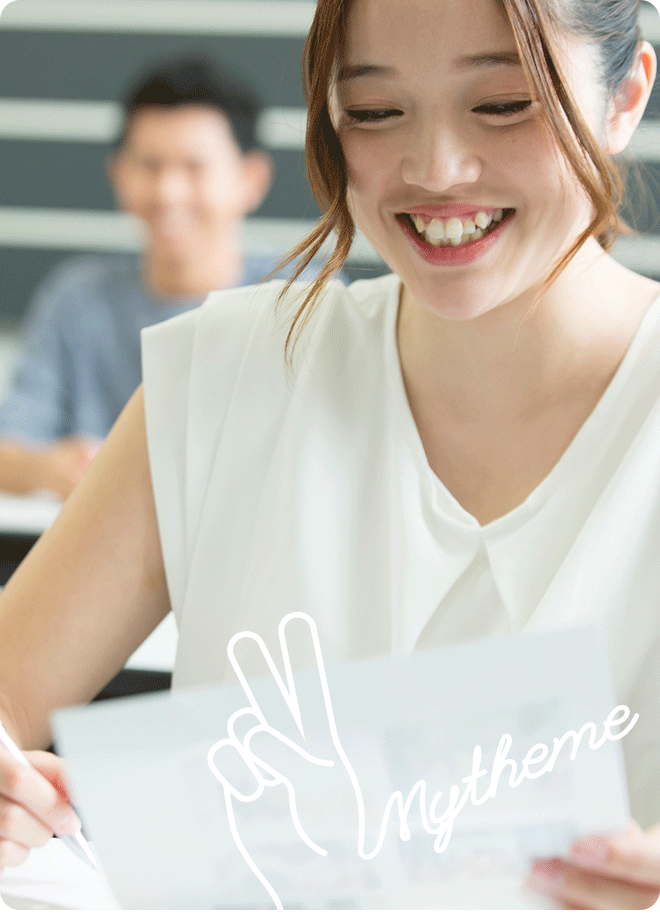
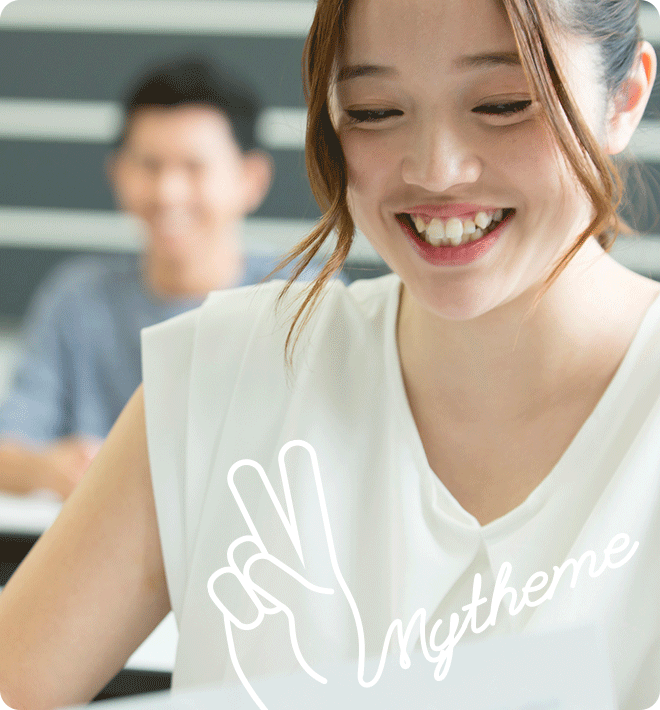
udpate code fix bug HNT-76 TOPメインビジュアルのデザイン変更

diff --git a/public/css/top.css b/public/css/top.css
@@ -104,6 +104,9 @@ main {
     writing-mode: vertical-rl;
     margin: 1px;
     letter-spacing: 0px;
+    font-family: fot-tsukuardgothic-std,sans-serif;
+    font-weight: 700;
+    font-style: normal;
 }
 .banner figure figcaption .description{
     transform: rotate(90deg);
